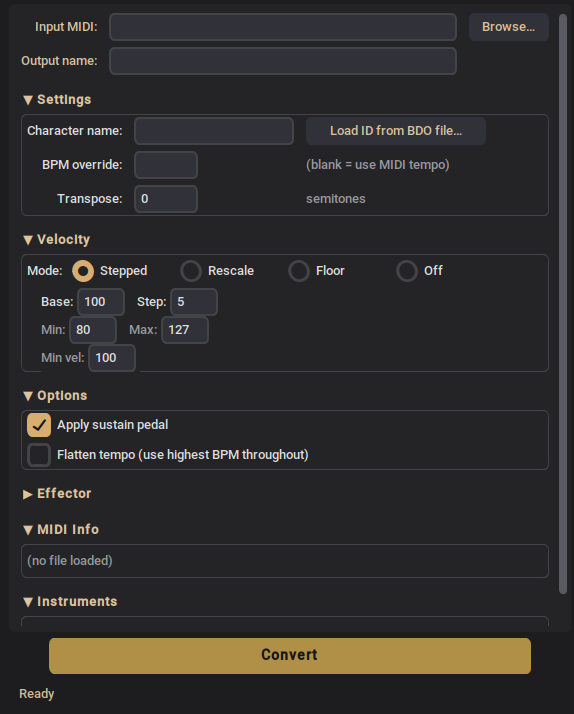
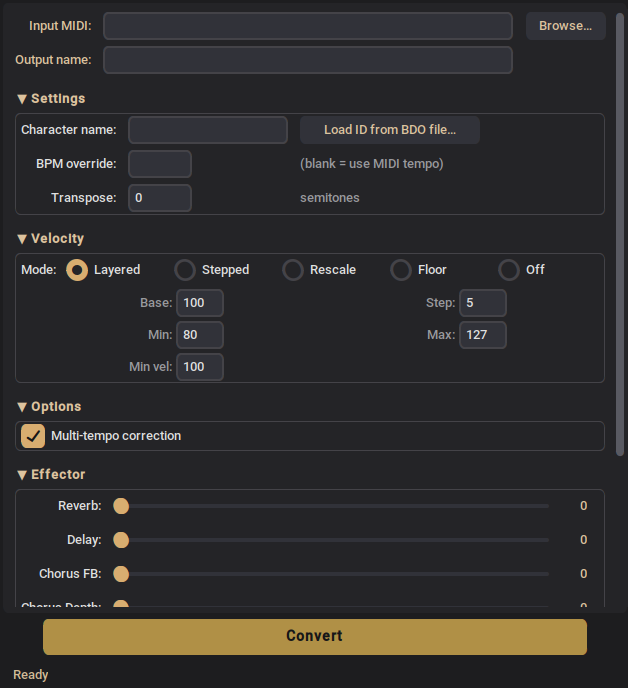
Remove sustain checkbox, rename flatten to multi-tempo correction
- Sustain pedal always on (no practical reason to disable)
- Rename "Flatten tempo" to "Multi-tempo correction"
- Align velocity param fields with shared grid layout
- Update screenshot

diff --git a/midi2bdo_gui.py b/midi2bdo_gui.py
@@ -33,7 +33,7 @@ _NOTE_NAMES = ['C', 'C#', 'D', 'D#', 'E', 'F', 'F#', 'G', 'G#', 'A', 'A#', 'B']
 def note_name(midi_note):
     return f"{_NOTE_NAMES[midi_note % 12]}{midi_note // 12 - 1}"
 
-# Native file dialog
+# ── Native file dialog ────────────────────────────────────────────
 _HAS_KDIALOG = shutil.which('kdialog') is not None
 
 def _native_open(title='Open', initialdir=None, filetypes=None):
@@ -63,7 +63,7 @@ def _native_open(title='Open', initialdir=None, filetypes=None):
                                       filetypes=filetypes or [])
 
 
-# BDO Color Palette
+# ── BDO Color Palette ──────────────────────────────────────────────
 BDO = {
     'bg_dark':     '#161618',
     'bg':          '#1d1d1f',
@@ -158,7 +158,7 @@ class ScrollableComboBox(ctk.CTkFrame):
         w = self.winfo_width()
         font_size = max(9, int(9 * scale))
 
-        # Raw canvas + scrollbar
+        # Raw canvas + scrollbar (no CTkScrollableFrame — avoids bind_all conflicts)
         canvas = tk.Canvas(dd, bg=BDO['surface'], highlightthickness=0,
                            width=w - 14, height=h)
         scrollbar = tk.Scrollbar(dd, orient='vertical', command=canvas.yview,
@@ -295,7 +295,6 @@ class App(ctk.CTk):
         self.rescale_min = tk.StringVar(value='80')
         self.rescale_max = tk.StringVar(value='127')
         self.floor_val = tk.StringVar(value='100')
-        self.apply_sustain = tk.BooleanVar(value=True)
         self.flatten_tempo = tk.BooleanVar(value=False)
         self.reverb = tk.IntVar(value=0)
         self.delay = tk.IntVar(value=0)
@@ -310,7 +309,8 @@ class App(ctk.CTk):
 
         self._build_ui()
 
-        # Size window to fit content
+        # Size window to fit content (CTkScrollableFrame doesn't propagate
+        # its content size, so we measure the inner frame and set geometry).
         self.update_idletasks()
         content_w = self._scroll_frame.winfo_reqwidth() + 40  # padding + scrollbar
         content_h = self._scroll_frame.winfo_reqheight() + 80  # bottom bar + padding
@@ -318,7 +318,7 @@ class App(ctk.CTk):
         self.geometry(f'{max(content_w, 520)}x{min(content_h, max_h)}')
         self.minsize(520, 400)
 
-    # UI construction
+    # ── UI construction ────────────────────────────────────────────
 
     def _build_ui(self):
         pad = dict(padx=6, pady=3)
@@ -332,12 +332,14 @@ class App(ctk.CTk):
         outer.rowconfigure(0, weight=1)
         outer.columnconfigure(0, weight=1)
 
-        # Scrollable area
+        # ── Scrollable area ──
         scroll = ctk.CTkScrollableFrame(outer, fg_color=BDO['bg_light'])
         scroll.grid(row=0, column=0, sticky='nsew')
         self._scroll_frame = scroll
 
-        # Unified scroll handler
+        # Unified scroll handler — replaces CTkScrollableFrame's own
+        # <MouseWheel> bind_all (no add='+') so there's only ONE handler.
+        # Routes to dropdown canvas when open, main canvas otherwise.
         def _scroll_target():
             inst = ScrollableComboBox._open_instance
             if inst is not None and inst._dd_canvas is not None:
@@ -348,7 +350,7 @@ class App(ctk.CTk):
             target = _scroll_target()
             if not event.delta:
                 return
-            # Windows delta is ±120 (or multiples), Linux is ±1
+            # Windows delta is ±120 (or multiples), Linux/macOS is ±1
             if sys.platform.startswith('win'):
                 units = -int(event.delta / 40)  # ±3 per tick
             elif sys.platform == 'darwin':
@@ -357,10 +359,10 @@ class App(ctk.CTk):
                 units = -3 if event.delta > 0 else 3
             target.yview_scroll(units, 'units')
 
-        # Replace CTkScrollableFrame's own MouseWheel handler
+        # Replace (not add to) CTkScrollableFrame's own MouseWheel handler
         scroll.bind_all('<MouseWheel>', _on_mousewheel)
 
-        # Linux X11 scroll events (Button-4/5 don't exist on Windows)
+        # Linux X11 scroll events (Button-4/5 don't exist on Windows/macOS)
         if not sys.platform.startswith('win') and sys.platform != 'darwin':
             def _on_button4(event):
                 _scroll_target().yview_scroll(-3, 'units')
@@ -372,7 +374,7 @@ class App(ctk.CTk):
         frame = scroll
         row = 0
 
-        # File selection
+        # ── File selection ──
         ctk.CTkLabel(frame, text="Input MIDI:", text_color=BDO['gold_light']).grid(
             row=row, column=0, sticky='e', **pad)
         ctk.CTkEntry(frame, textvariable=self.midi_path, width=350).grid(
@@ -388,7 +390,7 @@ class App(ctk.CTk):
             row=row, column=1, columnspan=2, sticky='we', **pad)
         row += 1
 
-        # Settings
+        # ── Settings ──
         settings_container, sep = _make_section(frame, "Settings")
         settings_container.grid(row=row, column=0, columnspan=4, sticky='we', pady=(8, 4), padx=4)
         row += 1
@@ -409,7 +411,7 @@ class App(ctk.CTk):
         ctk.CTkLabel(sep, text="semitones",
                      text_color=BDO['text_dim']).grid(row=r, column=2, sticky='w', **pad)
 
-        # Velocity
+        # ── Velocity ──
         vel_container, vel = _make_section(frame, "Velocity")
         vel_container.grid(row=row, column=0, columnspan=4, sticky='we', pady=(4, 4), padx=4)
         row += 1
@@ -448,18 +450,15 @@ class App(ctk.CTk):
 
         self._update_vel_fields()
 
-        # Options
+        # ── Options ──
         opt_container, opt = _make_section(frame, "Options")
         opt_container.grid(row=row, column=0, columnspan=4, sticky='we', pady=(4, 4), padx=4)
         row += 1
-        ctk.CTkCheckBox(opt, text="Apply sustain pedal", variable=self.apply_sustain,
-                        onvalue=True, offvalue=False,
-                        command=self._on_option_toggle).grid(sticky='w', padx=6, pady=3)
-        ctk.CTkCheckBox(opt, text="Flatten tempo (use highest BPM throughout)",
+        ctk.CTkCheckBox(opt, text="Multi-tempo correction",
                         variable=self.flatten_tempo, onvalue=True, offvalue=False,
                         command=self._on_option_toggle).grid(sticky='w', padx=6, pady=3)
 
-        # Effector
+        # ── Effector ──
         eff_container, eff = _make_section(frame, "Effector", collapsed=True)
         eff_container.grid(row=row, column=0, columnspan=4, sticky='we', pady=(4, 4), padx=4)
         row += 1
@@ -482,7 +481,7 @@ class App(ctk.CTk):
         _make_slider(eff, 3, "Chorus Depth:", self.chorus_depth)
         _make_slider(eff, 4, "Chorus Freq:", self.chorus_freq)
 
-        # MIDI info
+        # ── MIDI info ──
         info_container, info = _make_section(frame, "MIDI Info")
         info_container.grid(row=row, column=0, columnspan=4, sticky='we', pady=(4, 4), padx=4)
         row += 1
@@ -490,7 +489,7 @@ class App(ctk.CTk):
                                         text_color=BDO['text_dim'])
         self._info_label.grid(sticky='w', padx=6, pady=3)
 
-        # Instruments
+        # ── Instruments ──
         inst_container, self._instrument_frame = _make_section(frame, "Instruments")
         inst_container.grid(row=row, column=0, columnspan=4, sticky='we', pady=(4, 4), padx=4)
         self._inst_container = inst_container
@@ -500,24 +499,24 @@ class App(ctk.CTk):
                                            text_color=BDO['text_dim'])
         self._no_inst_label.grid(sticky='w', padx=6, pady=3)
 
-        # Fixed bottom bar (outside scrollable area)
+        # ── Fixed bottom bar (outside scrollable area) ──
         bottom = ctk.CTkFrame(outer, fg_color='transparent')
         bottom.grid(row=1, column=0, sticky='we', pady=(6, 10))
 
-        # Convert button — gold accent 
+        # ── Convert button — gold accent ──
         ctk.CTkButton(bottom, text="Convert", command=self._convert,
                       fg_color=BDO['gold_dark'], hover_color=BDO['gold'],
                       text_color=BDO['bg_dark'],
                       font=ctk.CTkFont(size=14, weight='bold'),
                       height=36).pack(fill='x', padx=40, pady=(0, 4))
 
-        # Status bar
+        # ── Status bar ──
         status_frame = ctk.CTkFrame(bottom, fg_color=BDO['bg'], corner_radius=4)
         status_frame.pack(fill='x', padx=4)
         ctk.CTkLabel(status_frame, textvariable=self.status_text,
                      text_color=BDO['text_gold']).pack(anchor='w', padx=6, pady=2)
 
-    # Helpers
+    # ── Helpers ────────────────────────────────────────────────────
 
     def _update_vel_fields(self):
         mode = self.vel_mode.get()
@@ -585,7 +584,7 @@ class App(ctk.CTk):
     def _load_midi_info(self, path):
         try:
             bpm, tsig, channel_groups, tempo_changes = parse_midi(
-                path, apply_sustain=self.apply_sustain.get(),
+                path, apply_sustain=True,
                 flatten_tempo=self.flatten_tempo.get())
 
             self._tempo_changes = tempo_changes
@@ -743,7 +742,7 @@ class App(ctk.CTk):
                 path, bpm_override=bpm_override, char_name=char_name,
                 vel_range=vel_range, vel_floor=vel_floor_val, vel_step=vel_step_val,
                 vel_layered=(mode == 'layered'),
-                transpose=semitones, apply_sustain=self.apply_sustain.get(),
+                transpose=semitones, apply_sustain=True,
                 flatten_tempo=self.flatten_tempo.get(),
                 owner_id=self._owner_id,
                 instrument_map=instrument_map,

diff --git a/midi2bdo.py b/midi2bdo.py
@@ -1,5 +1,5 @@
 #!/usr/bin/env python3
-"""Convert MIDI files to Black Desert Online music composer format."""
+"""Convert MIDI files to Black Desert Online music composer format (v9)."""
 
 import argparse
 from collections import defaultdict, namedtuple
